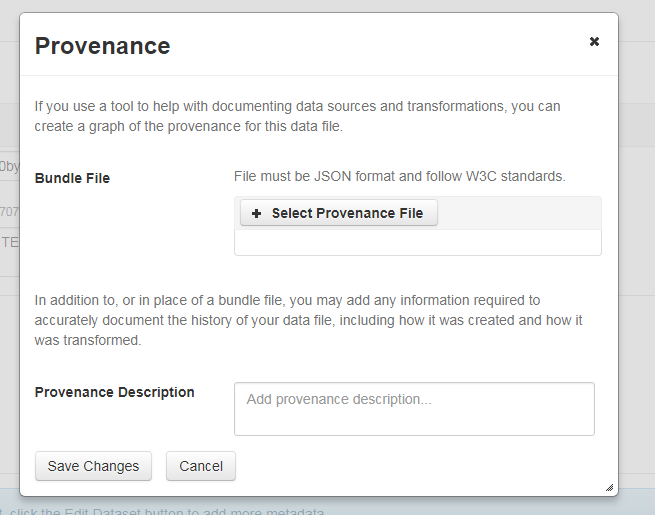
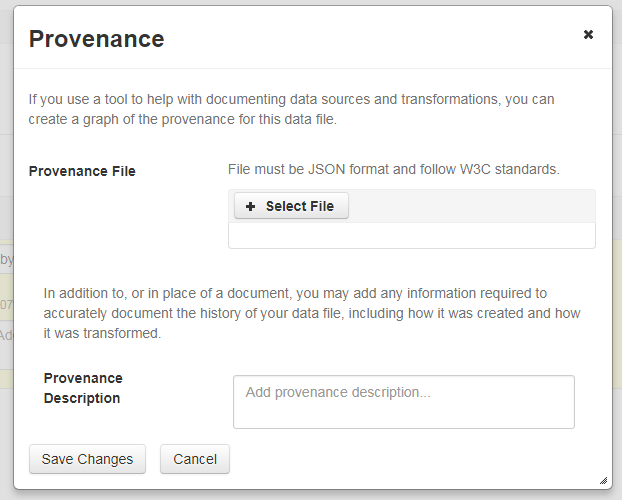
Updated documentation terminology [#4343]
Replaced instances of "bundle file" with "provenance file" in the docs.

diff --git a/doc/sphinx-guides/source/user/dataset-management.rst b/doc/sphinx-guides/source/user/dataset-management.rst
@@ -130,17 +130,17 @@ Data Provenance
 
 Data Provenance is a record of where your data came from and how it reached its current form. It describes the origin of a data file, any transformations that have been made to that file, and any persons or organizations associated with that file. A data file's provenance can aid in reproducibility and compliance with legal regulations. Dataverse can help keep track of your data's provenance and make it available to those who need it.
 
-Dataverse accepts provenance information in two forms: a *Provenance Bundle File* or a free-text *Provenance Description*. You can attach this provenance information to your data files in Dataverse as part of the file upload process, by clicking Edit -> Provenance:
+Dataverse accepts provenance information in two forms: a *Provenance File* or a free-text *Provenance Description*. You can attach this provenance information to your data files in Dataverse as part of the file upload process, by clicking Edit -> Provenance:
 
 |file-upload-prov-button|
 
-This will open a window where you can add your Provenance Bundle File and/or Provenance Description:
+This will open a window where you can add your Provenance File and/or Provenance Description:
 
 |file-upload-prov-window|  
 
-A **Bundle File** is the preferred way of submitting provenance information to Dataverse, as it allows Dataverse to automatically generate a detailed graph of the data file's provenance. Bundle files are typically generated during the process of data analysis, using provenance capture tools like provR, RDataTracker, NoWorkFlow, recordr, or CamFlow. Each data file in Dataverse can have one bundle file attached to it. Dataverse uses this bundle file to generate a provenance graph that can be viewed under the Provenance tab of the file page. Once you've added your bundle file, you can click the Preview button to make sure it's accurate.
+A **Provenance File** is the preferred way of submitting provenance information to Dataverse, as it allows Dataverse to automatically generate a detailed graph of the data file's provenance. Provenance files are typically generated during the process of data analysis, using provenance capture tools like provR, RDataTracker, NoWorkFlow, recordr, or CamFlow. Each data file in Dataverse can have one provenance file attached to it. Dataverse uses this provenance file to generate a provenance graph that can be viewed under the Provenance tab of the file page. Once you've added your provenance file, you can click the Preview button to make sure it's accurate.
 
-A **Provenance Description** allows you to add more provenance information in addition to or in place of a bundle file. This is a free-text field that allows you to enter any information you feel might be relevant to those interested in learning about the provenance of your data. This might be a good place to describe provenance factors like what operating system you used when working with the file, what functions or libraries you used, how data was merged into the file, what version of the file you used, etc. The Provenance Description is not as useful or trustworthy as a bundle file, but it can still provide value.
+A **Provenance Description** allows you to add more provenance information in addition to or in place of a provenance file. This is a free-text field that allows you to enter any information you feel might be relevant to those interested in learning about the provenance of your data. This might be a good place to describe provenance factors like what operating system you used when working with the data file, what functions or libraries you used, how data was merged into the file, what version of the file you used, etc. The Provenance Description is not as useful or trustworthy as a provenance file, but it can still provide value.
 
 You can also attach provenance to your data file later on by clicking the "Add Provenance" button on the file page, under the Provenance tab: 
 
@@ -148,7 +148,7 @@ You can also attach provenance to your data file later on by clicking the "Add P
 
 You can always add provenance to a file that has none, but you can only replace a file's provenance *before* it is published. Once you publish a file with provenance attached, that provenance is made permanent (in order to maintain a stable record of the file's history).
 
-Once a data file with an attached provenance bundle is published, you can see a graph of that file's provenance under the Provenance tab on the file page.
+Once a data file with an attached provenance file is published, you can see a graph of that file's provenance under the Provenance tab on the file page.
 
 .. _rsync_upload:
 
